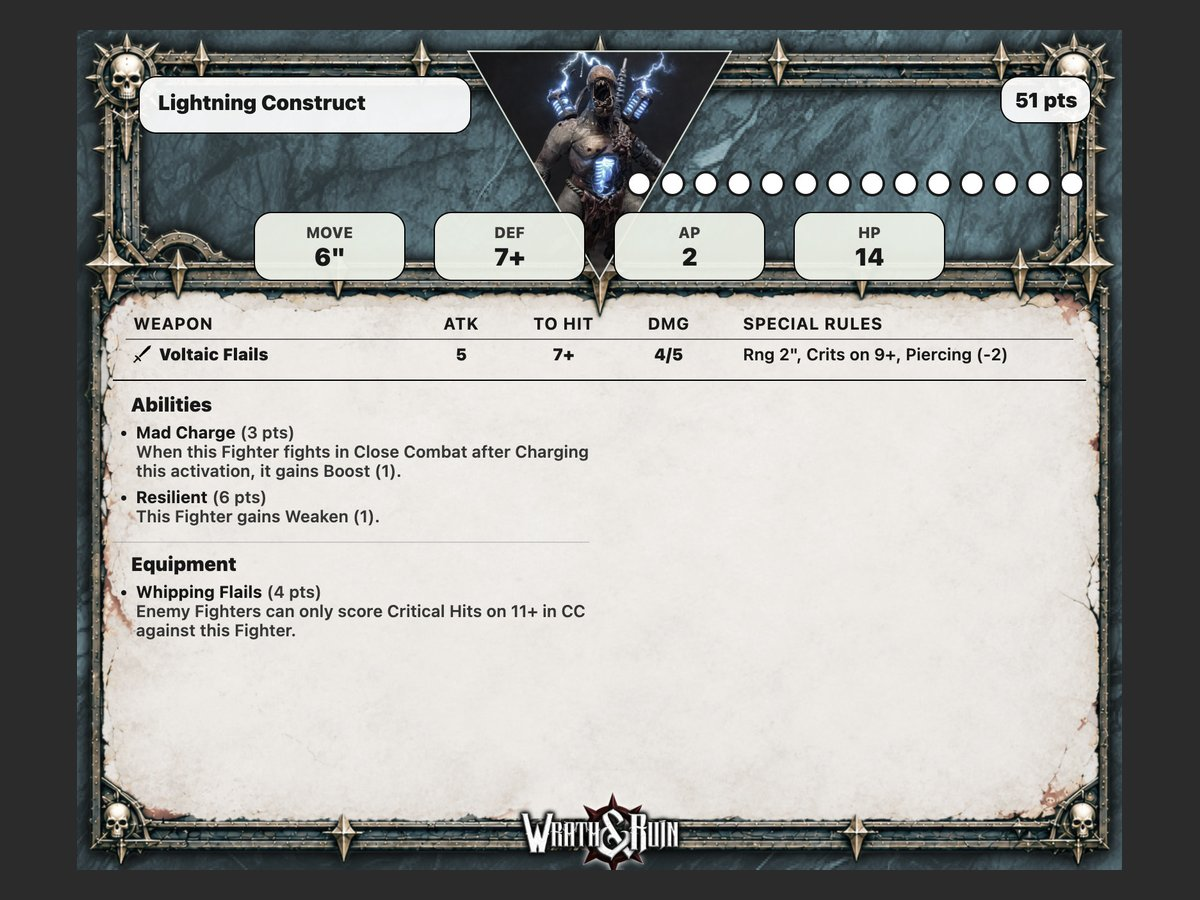
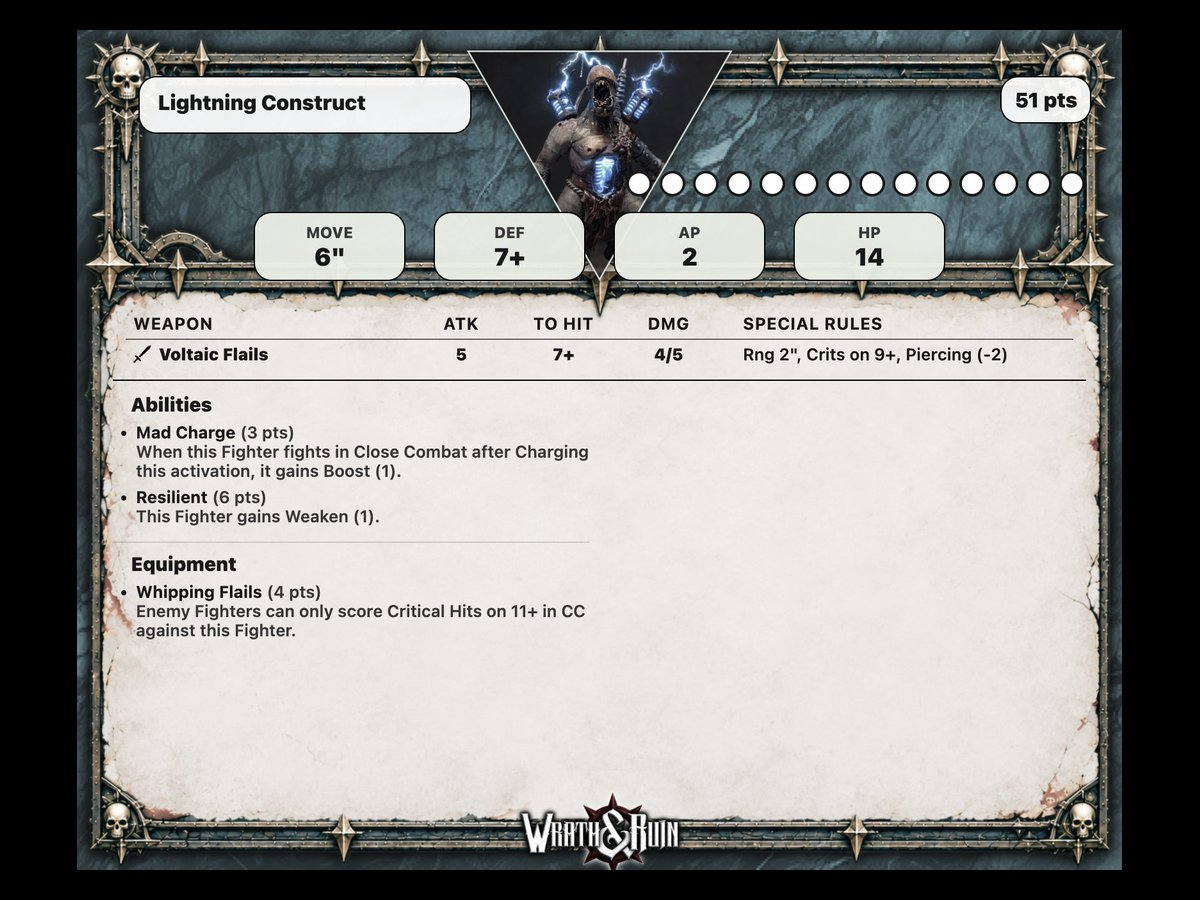
Homepage: black background behind the fighter card picture
Claude-Session: https://claude.ai/code/session_01R4n7xJWF7uURaT6ii15cUd

Changed region(s): [[0.0, 0.0, 1.0, 1.0]]

diff --git a/home/blogger_homepage_gadget.html b/home/blogger_homepage_gadget.html
@@ -207,7 +207,7 @@ html.b28-home #Blog1{display:none !important}
         <p>Build and paint the models as you want them to be &ndash; no restrictions. Any range, any scale close to 28mm, any mix of parts.</p>
       </li>
       <li>
-        <img src="https://bitteroldpainter.github.io/bitzkrieg/home/step_forge.jpg" alt="The Lightning Construct fighter card made in the Fighter Forge">
+        <img src="https://bitteroldpainter.github.io/bitzkrieg/home/step_forge.jpg?v=2" alt="The Lightning Construct fighter card made in the Fighter Forge">
         <h3><span>2.</span> Forge</h3>
         <p>Pick the weapons and abilities your model actually has. The Forge works out the points and prints the card.</p>
       </li>
